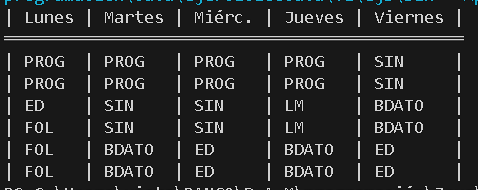
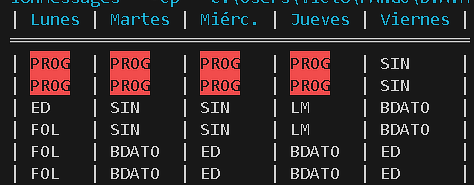
new: colors in table

diff --git a/src/ut.java b/src/ut.java
@@ -1,0 +1,74 @@
+public class ut {
+    // Reset
+    public static final String RESET = "\033[0m";  // Text Reset
+ 
+    // Regular Colors
+    public static final String BLACK = "\033[0;30m";   // BLACK
+    public static final String RED = "\033[0;31m";     // RED
+    public static final String GREEN = "\033[0;32m";   // GREEN
+    public static final String YELLOW = "\033[0;33m";  // YELLOW
+    public static final String BLUE = "\033[0;34m";    // BLUE
+    public static final String PURPLE = "\033[0;35m";  // PURPLE
+    public static final String CYAN = "\033[0;36m";    // CYAN
+    public static final String WHITE = "\033[0;37m";   // WHITE
+ 
+    // Bold
+    public static final String BLACK_BOLD = "\033[1;30m";  // BLACK
+    public static final String RED_BOLD = "\033[1;31m";    // RED
+    public static final String GREEN_BOLD = "\033[1;32m";  // GREEN
+    public static final String YELLOW_BOLD = "\033[1;33m"; // YELLOW
+    public static final String BLUE_BOLD = "\033[1;34m";   // BLUE
+    public static final String PURPLE_BOLD = "\033[1;35m"; // PURPLE
+    public static final String CYAN_BOLD = "\033[1;36m";   // CYAN
+    public static final String WHITE_BOLD = "\033[1;37m";  // WHITE
+ 
+    // Underline
+    public static final String BLACK_UNDERLINED = "\033[4;30m";  // BLACK
+    public static final String RED_UNDERLINED = "\033[4;31m";    // RED
+    public static final String GREEN_UNDERLINED = "\033[4;32m";  // GREEN
+    public static final String YELLOW_UNDERLINED = "\033[4;33m"; // YELLOW
+    public static final String BLUE_UNDERLINED = "\033[4;34m";   // BLUE
+    public static final String PURPLE_UNDERLINED = "\033[4;35m"; // PURPLE
+    public static final String CYAN_UNDERLINED = "\033[4;36m";   // CYAN
+    public static final String WHITE_UNDERLINED = "\033[4;37m";  // WHITE
+ 
+    // Background
+    public static final String BLACK_BACKGROUND = "\033[40m";  // BLACK
+    public static final String RED_BACKGROUND = "\033[41m";    // RED
+    public static final String GREEN_BACKGROUND = "\033[42m";  // GREEN
+    public static final String YELLOW_BACKGROUND = "\033[43m"; // YELLOW
+    public static final String BLUE_BACKGROUND = "\033[44m";   // BLUE
+    public static final String PURPLE_BACKGROUND = "\033[45m"; // PURPLE
+    public static final String CYAN_BACKGROUND = "\033[46m";   // CYAN
+    public static final String WHITE_BACKGROUND = "\033[47m";  // WHITE
+ 
+    // High Intensity
+    public static final String BLACK_BRIGHT = "\033[0;90m";  // BLACK
+    public static final String RED_BRIGHT = "\033[0;91m";    // RED
+    public static final String GREEN_BRIGHT = "\033[0;92m";  // GREEN
+    public static final String YELLOW_BRIGHT = "\033[0;93m"; // YELLOW
+    public static final String BLUE_BRIGHT = "\033[0;94m";   // BLUE
+    public static final String PURPLE_BRIGHT = "\033[0;95m"; // PURPLE
+    public static final String CYAN_BRIGHT = "\033[0;96m";   // CYAN
+    public static final String WHITE_BRIGHT = "\033[0;97m";  // WHITE
+ 
+    // Bold High Intensity
+    public static final String BLACK_BOLD_BRIGHT = "\033[1;90m"; // BLACK
+    public static final String RED_BOLD_BRIGHT = "\033[1;91m";   // RED
+    public static final String GREEN_BOLD_BRIGHT = "\033[1;92m"; // GREEN
+    public static final String YELLOW_BOLD_BRIGHT = "\033[1;93m";// YELLOW
+    public static final String BLUE_BOLD_BRIGHT = "\033[1;94m";  // BLUE
+    public static final String PURPLE_BOLD_BRIGHT = "\033[1;95m";// PURPLE
+    public static final String CYAN_BOLD_BRIGHT = "\033[1;96m";  // CYAN
+    public static final String WHITE_BOLD_BRIGHT = "\033[1;97m"; // WHITE
+ 
+    // High Intensity backgrounds
+    public static final String BLACK_BACKGROUND_BRIGHT = "\033[0;100m";// BLACK
+    public static final String RED_BACKGROUND_BRIGHT = "\033[0;101m";// RED
+    public static final String GREEN_BACKGROUND_BRIGHT = "\033[0;102m";// GREEN
+    public static final String YELLOW_BACKGROUND_BRIGHT = "\033[0;103m";// YELLOW
+    public static final String BLUE_BACKGROUND_BRIGHT = "\033[0;104m";// BLUE
+    public static final String PURPLE_BACKGROUND_BRIGHT = "\033[0;105m"; // PURPLE
+    public static final String CYAN_BACKGROUND_BRIGHT = "\033[0;106m";  // CYAN
+    public static final String WHITE_BACKGROUND_BRIGHT = "\033[0;107m";   // WHITE
+}

diff --git a/src/App.java b/src/App.java
@@ -1,12 +1,26 @@
 public class App {
     public static void main(String[] args) throws Exception {
+        
+
         System.out.printf("| %5s | %5s | %5s | %5s | %5s |%n",
-        "Lunes", "Martes", "Miérc.", "Jueves", "Viernes");
+         ut.CYAN + "Lunes" + ut.RESET,
+         ut.CYAN + "Martes" + ut.RESET, 
+         ut.CYAN + "Miérc." + ut.RESET, 
+         ut.CYAN + "Jueves" + ut.RESET, 
+         ut.CYAN + "Viernes" + ut.RESET);
         System.out.println("══════════════════════════════════════════════");
-        System.out.printf("| %-5s | %-6s | %-6s | %-6s | %-7s |%n",
-        "PROG", "PROG", "PROG", "PROG", "SIN");
-        System.out.printf("| %-5s | %-6s | %-6s | %-6s | %-7s |%n",
-        "PROG", "PROG", "PROG", "PROG", "SIN");
+        System.out.printf("| %-6s  | %-6s   | %-6s   | %-6s   | %-7s |%n",
+        ut.RED_BACKGROUND_BRIGHT + "PROG" + ut.RESET,
+        ut.RED_BACKGROUND_BRIGHT + "PROG" + ut.RESET,
+        ut.RED_BACKGROUND_BRIGHT + "PROG" + ut.RESET,
+        ut.RED_BACKGROUND_BRIGHT + "PROG" + ut.RESET,
+        "SIN");
+        System.out.printf("| %-5s  | %-6s   | %-6s   | %-6s   | %-7s |%n",
+        ut.RED_BACKGROUND_BRIGHT + "PROG" + ut.RESET,
+        ut.RED_BACKGROUND_BRIGHT + "PROG" + ut.RESET, 
+        ut.RED_BACKGROUND_BRIGHT + "PROG" + ut.RESET,
+        ut.RED_BACKGROUND_BRIGHT + "PROG" + ut.RESET,
+        "SIN");
         System.out.printf("| %-5s | %-6s | %-6s | %-6s | %-7s |%n",
         "ED", "SIN", "SIN", "LM", "BDATO");
         System.out.printf("| %-5s | %-6s | %-6s | %-6s | %-7s |%n",

diff --git a/README.md b/README.md
@@ -2,4 +2,6 @@
 
 Escribe un programa que muestre tu horario de clase. Puedes usar espacios o tabuladores para alinear el texto.
 
+Añadele colores a las letras de los dís y fondos de colores a las asignaturas
+
 ![imagen_horario](img/horario.png)
